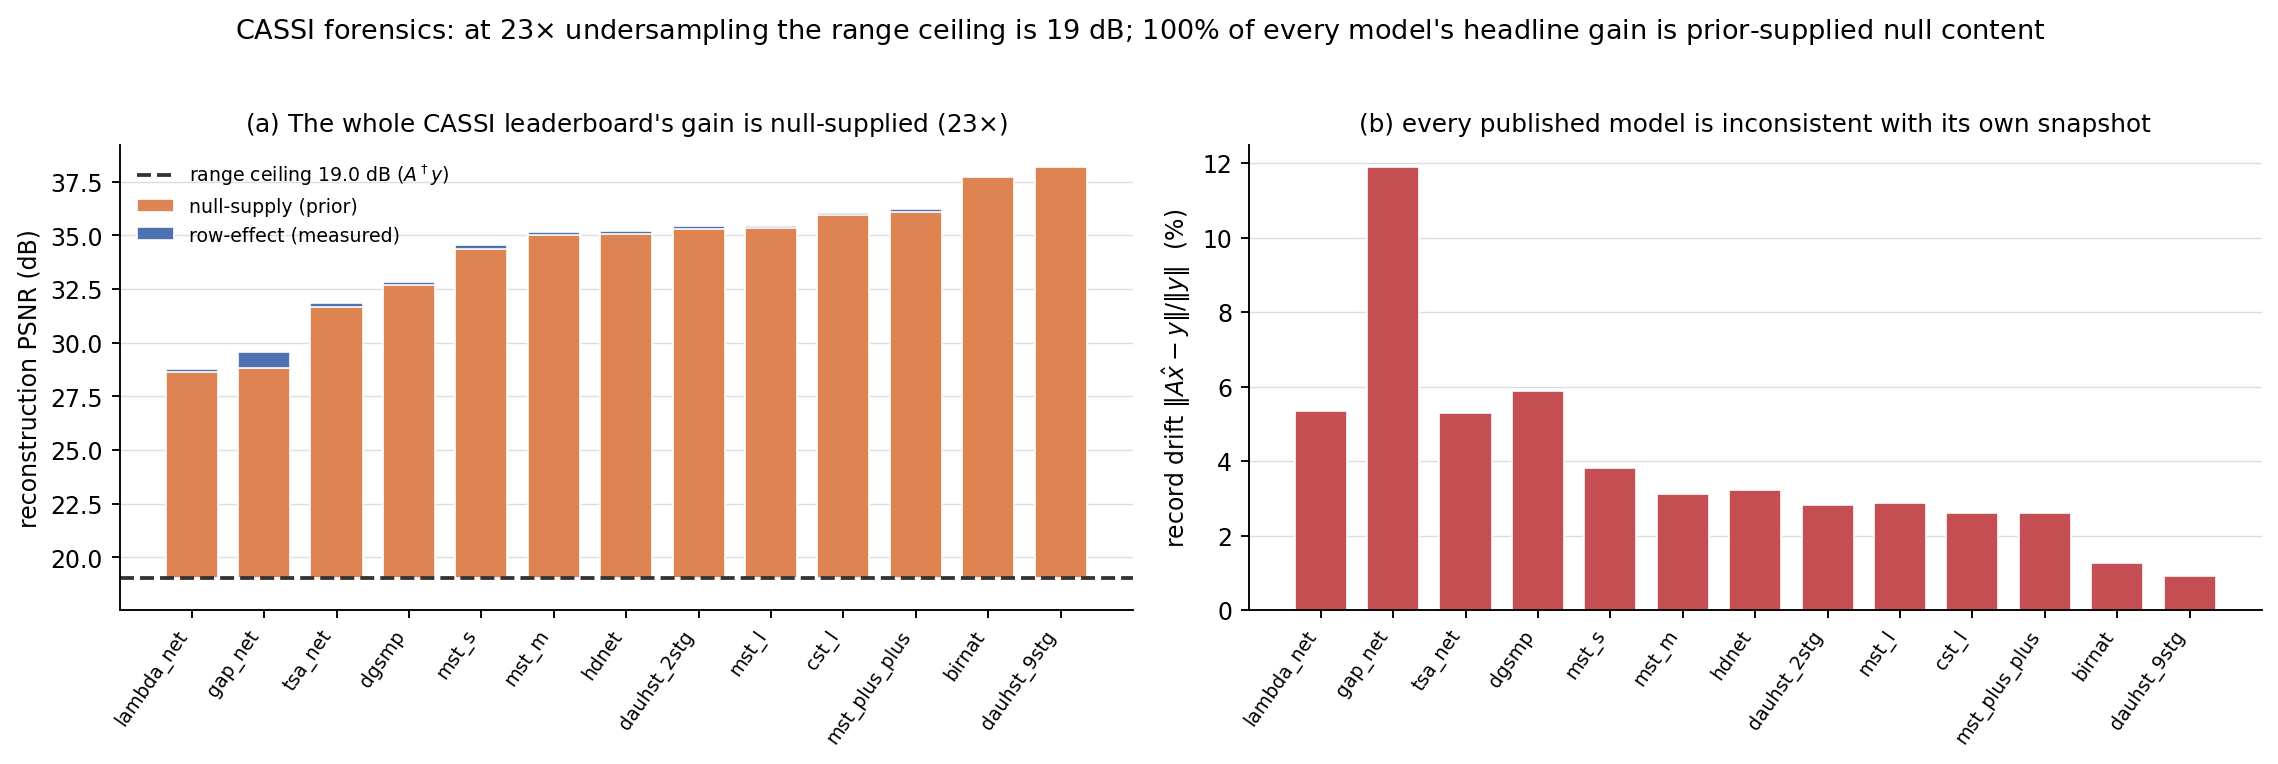
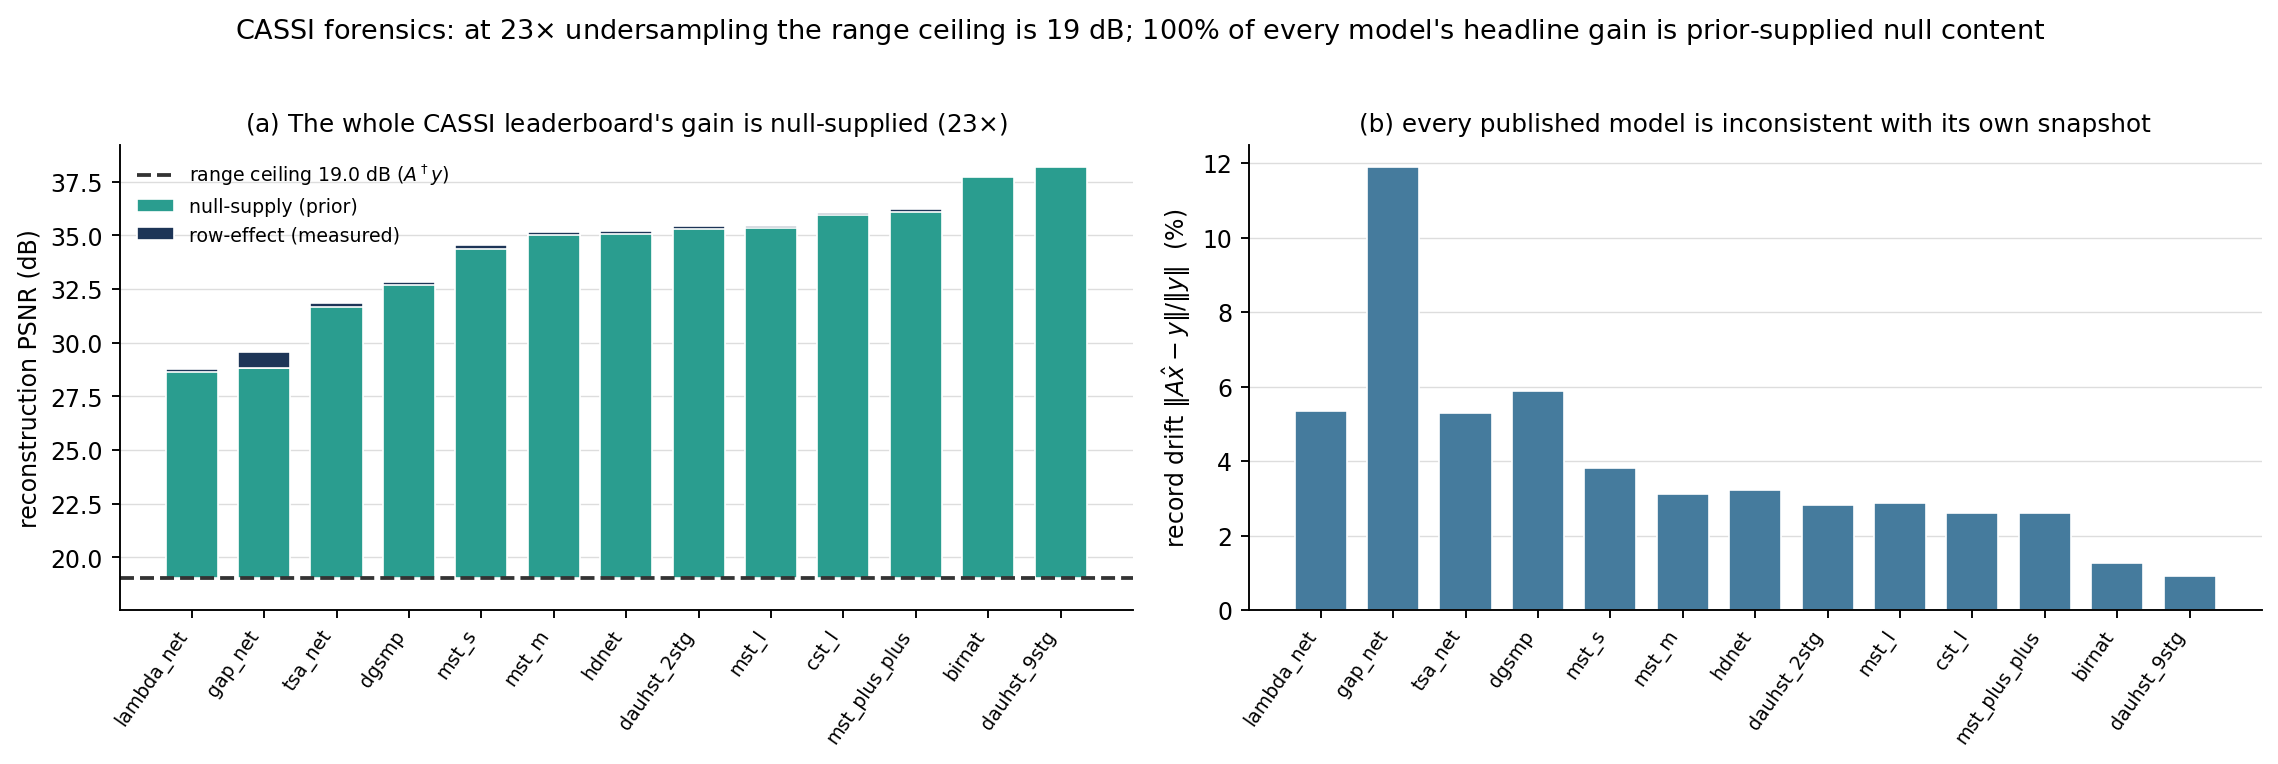
Fig 6: cooler academic blue-green palette
Re-recolored the CASSI forensics figure to a cool blue-green academic
scheme: null-supply (prior) #2a9d8f teal, row-effect (measured) #1d3557
deep navy, drift #457b9d steel blue, ceiling #333 dashed (white bar
edges + light y-grid retained). Regenerated from forensics.json, copied
to paper/, rebuilt PDF. No data or numbers changed.

Changed region(s): [[0.0623, 0.2107, 0.4987, 0.7526], [0.561, 0.2107, 0.9974, 0.8128], [0.0623, 0.2408, 0.0935, 0.3312]]

diff --git a/cassi_twoledger/cassi_forensics.py b/cassi_twoledger/cassi_forensics.py
@@ -163,8 +163,8 @@ def make_figure(results, op, lam=1e-3):
     drifts = [r["record_drift_median"] for _, r in items]
     x = np.arange(len(names))
 
-    # muted, colorblind-friendly palette
-    C_NULL, C_ROW, C_DRIFT, C_CEIL = "#dd8452", "#4c72b0", "#c44e52", "#333333"
+    # cool academic blue-green palette (colorblind-friendly)
+    C_NULL, C_ROW, C_DRIFT, C_CEIL = "#2a9d8f", "#1d3557", "#457b9d", "#333333"
     fig, ax = plt.subplots(1, 2, figsize=(13.5, 4.4))
     ax[0].bar(x, nulls, 0.72, bottom=ceil, color=C_NULL, edgecolor="white", linewidth=0.7, label="null-supply (prior)")
     ax[0].bar(x, rows, 0.72, bottom=[ceil + n for n in nulls], color=C_ROW, edgecolor="white", linewidth=0.7, label="row-effect (measured)")